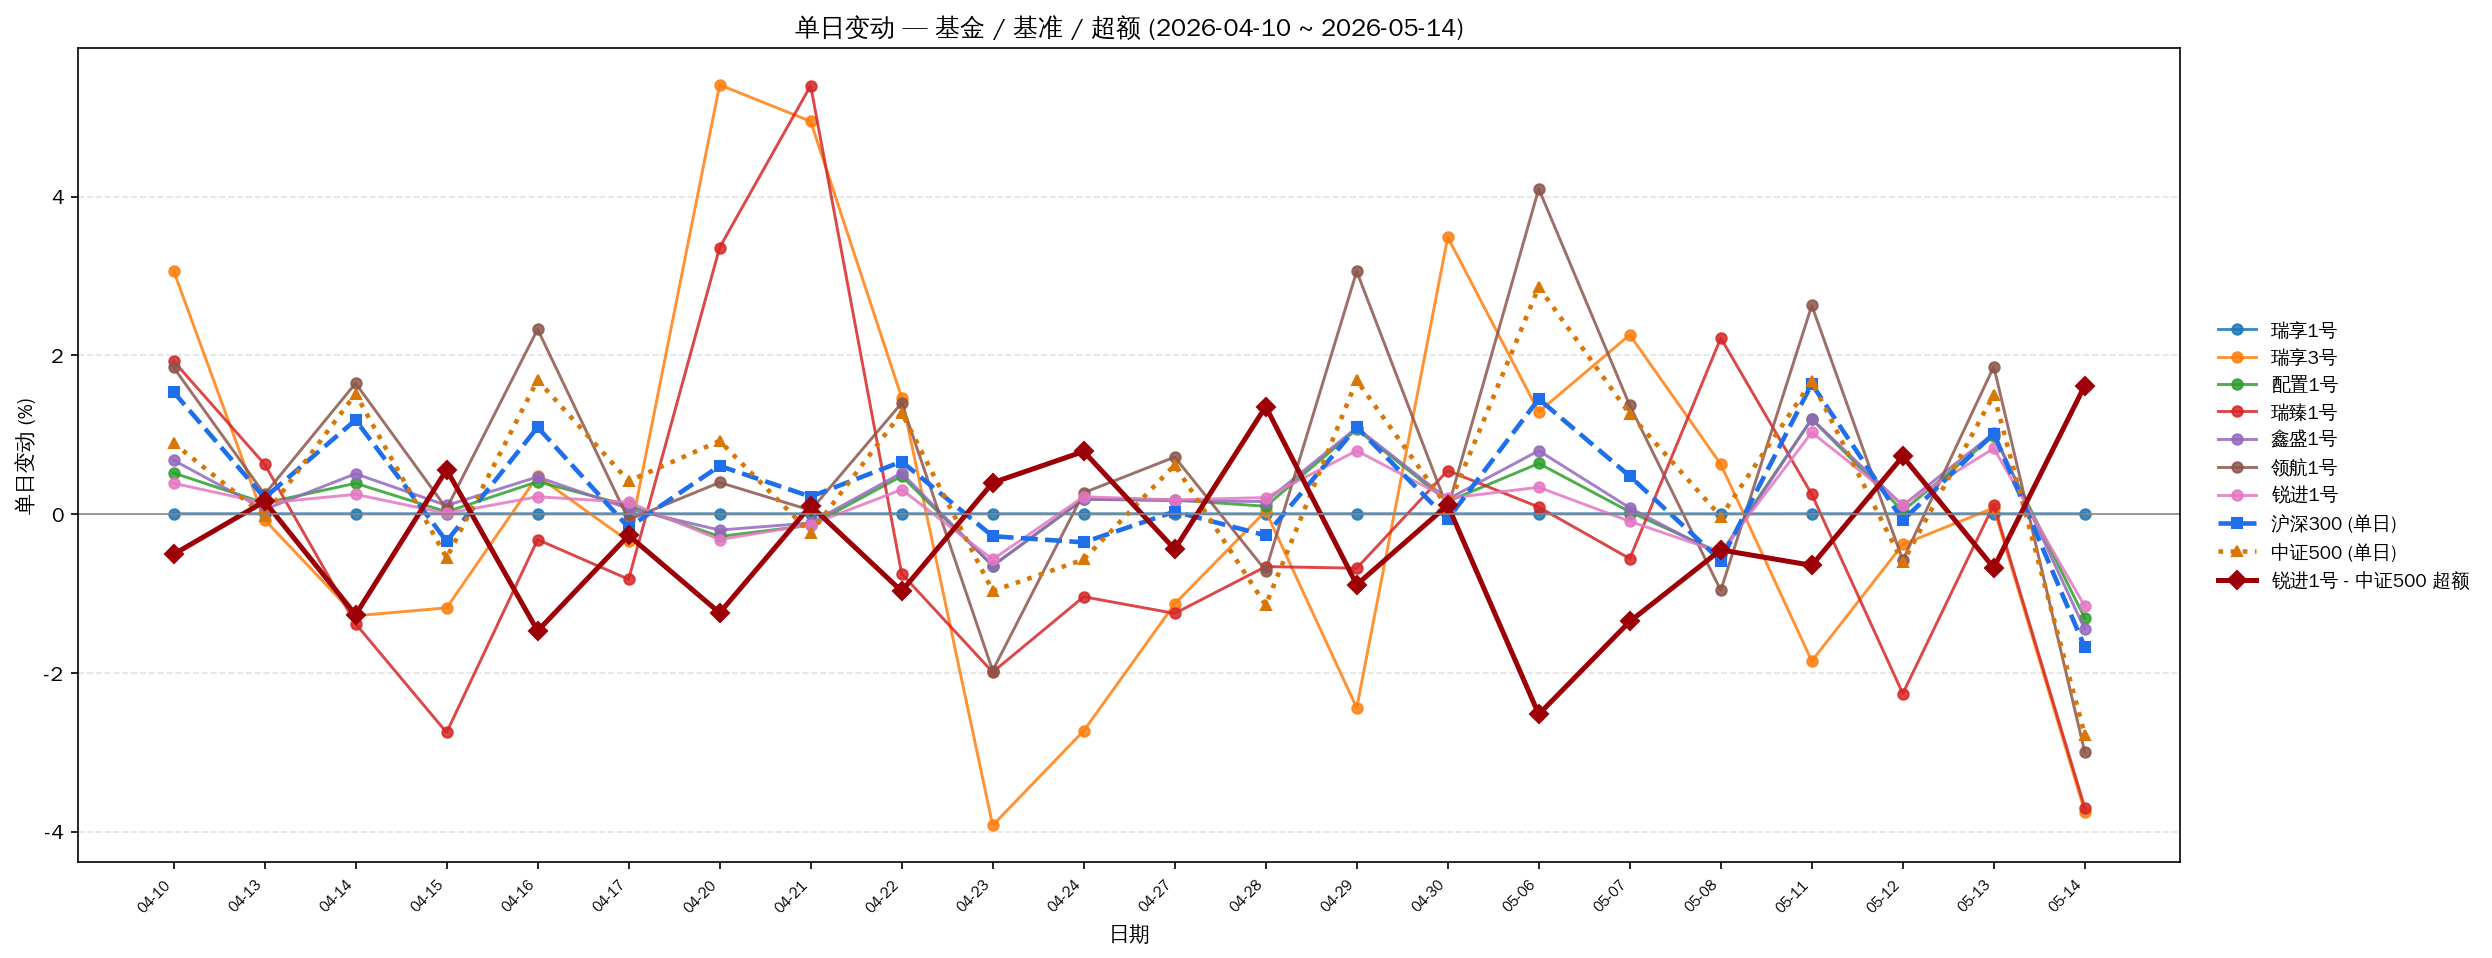
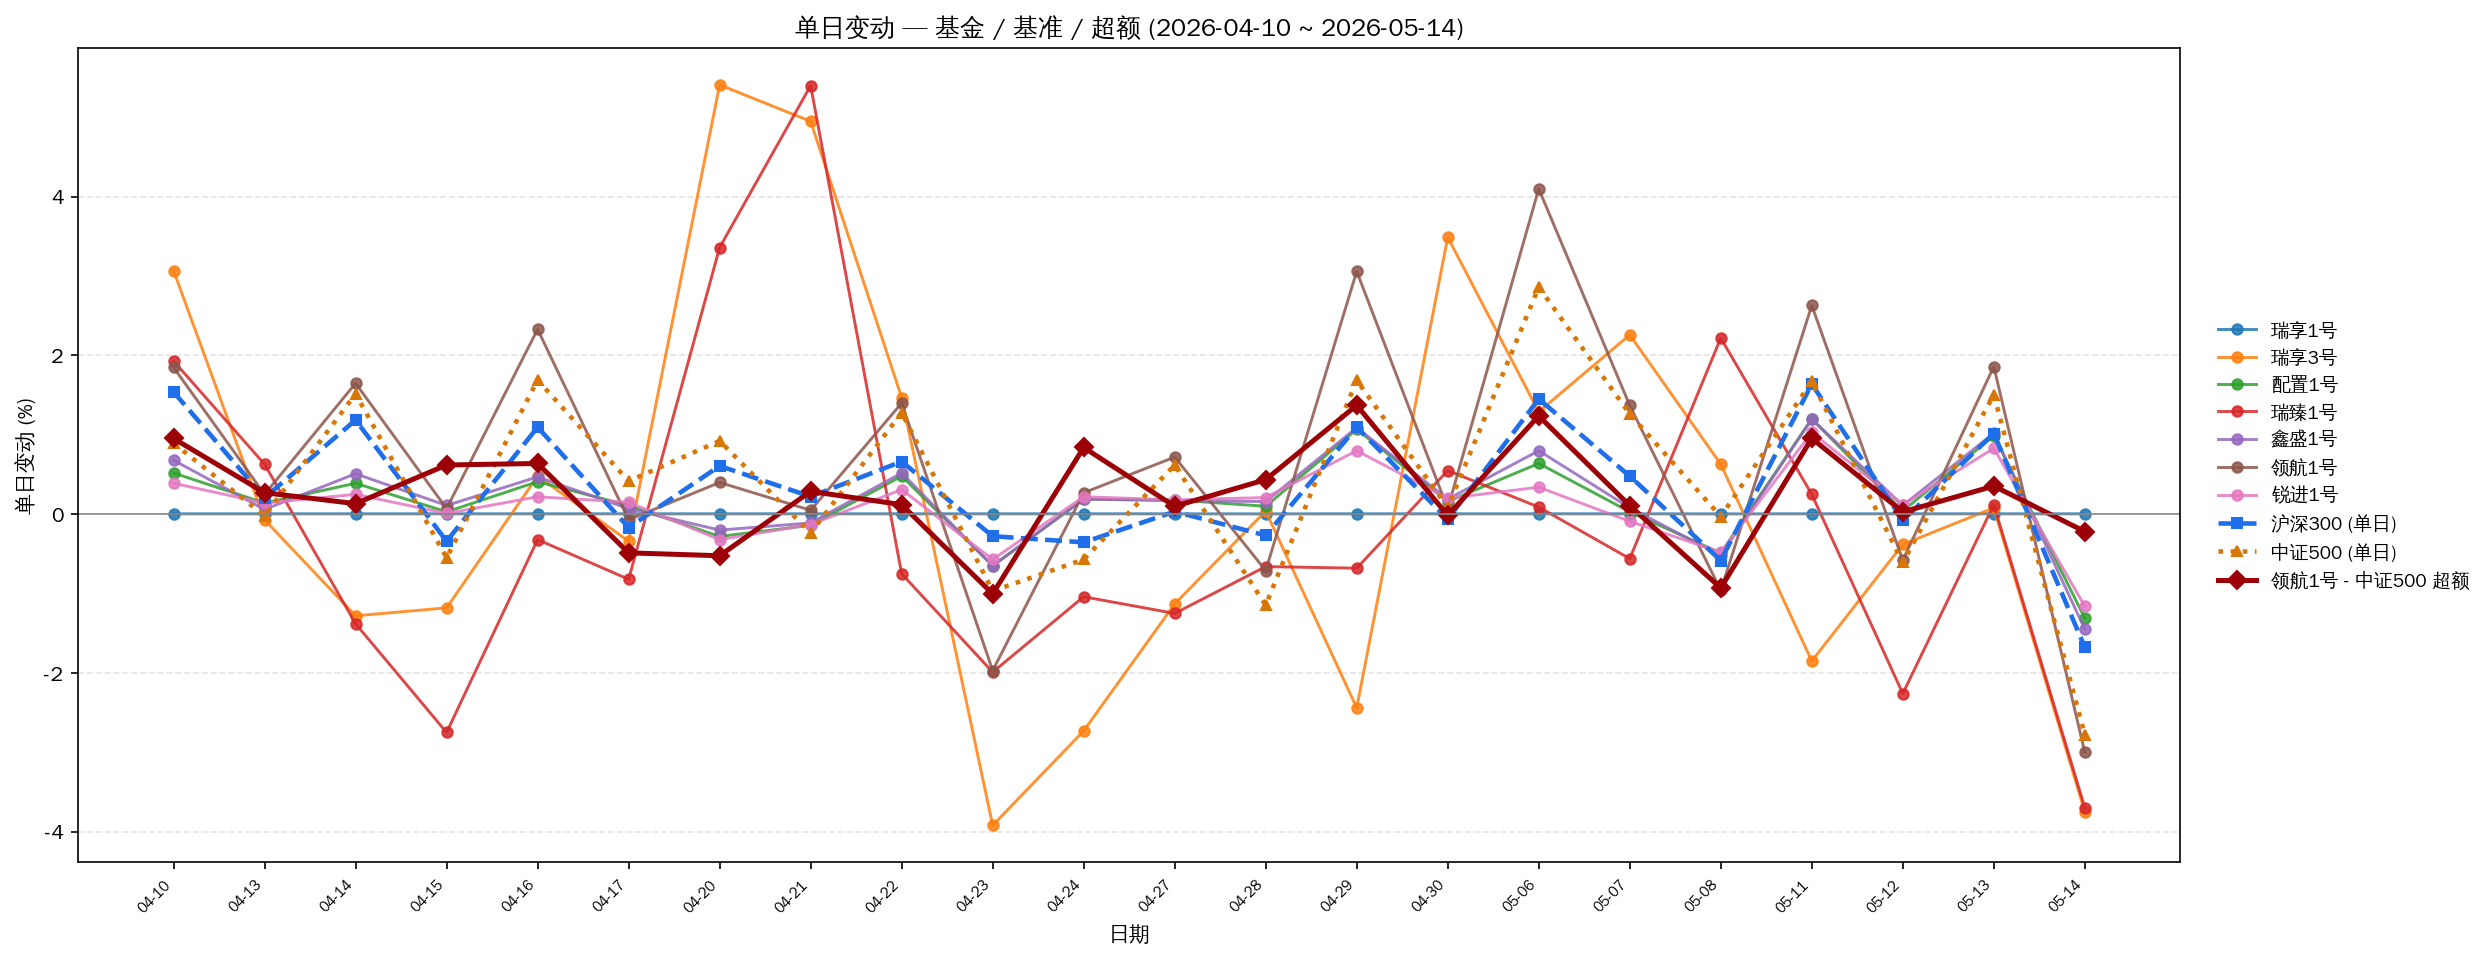
Switch daily excess row/line from 锐进1号 to 领航1号 vs CSI500
https://claude.ai/code/session_014VmLcPuADdRYg34QDm2fTF

diff --git a/pipeline/combined.py b/pipeline/combined.py
@@ -227,7 +227,7 @@ def _write_xlsx(out_path: Path, extractions: list[Extraction],
     _product_rows(ws, ytd_frac, "0.00%")
     _finalize(ws)
 
-    # Sheet 3: daily change + CSI 300 / CSI 500 daily + 锐进1号 excess
+    # Sheet 3: daily change + CSI 300 / CSI 500 daily + 领航1号 excess
     ws = wb.create_sheet("单日单位净值变动")
     _header(ws)
     daily_frac = {n: {d: (v / 100.0 if v is not None else None)
@@ -253,14 +253,14 @@ def _write_xlsx(out_path: Path, extractions: list[Extraction],
             c.alignment = right
             c.border = border
 
-    # 锐进1号 - CSI 500 excess return (daily)
+    # 领航1号 - CSI 500 excess return (daily)
     excess_row = base_row + 2
-    nc = ws.cell(row=excess_row, column=1, value="锐进1号 - 中证500 超额")
+    nc = ws.cell(row=excess_row, column=1, value="领航1号 - 中证500 超额")
     nc.font = excess_font
     nc.fill = excess_fill
     nc.alignment = center
     nc.border = border
-    rj_daily = daily.get("锐进1号", {})
+    rj_daily = daily.get("领航1号", {})
     for j, d in enumerate(dates, start=2):
         rj = rj_daily.get(d)
         b = bench_daily["CSI500"].get(d)
@@ -278,7 +278,7 @@ def _write_xlsx(out_path: Path, extractions: list[Extraction],
 
 def _build_daily_chart(out_path: Path, extractions: list[Extraction],
                        product_order: list[str]) -> None:
-    """Daily % change: every product + CSI 300 + CSI 500 + 锐进1号 excess."""
+    """Daily % change: every product + CSI 300 + CSI 500 + 领航1号 excess."""
     _setup_chinese_font()
 
     dates = [e.date for e in extractions]
@@ -311,7 +311,7 @@ def _build_daily_chart(out_path: Path, extractions: list[Extraction],
             linestyle=":", marker="^", markersize=marker_size,
             linewidth=2.2, color="#d97706", label="中证500 (单日)")
 
-    rj = daily.get("锐进1号", {})
+    rj = daily.get("领航1号", {})
     excess = [
         (rj.get(d) - bench_daily["CSI500"].get(d))
         if (rj.get(d) is not None and bench_daily["CSI500"].get(d) is not None)
@@ -320,7 +320,7 @@ def _build_daily_chart(out_path: Path, extractions: list[Extraction],
     ]
     ax.plot(xs, excess, linestyle="-", marker="D", markersize=marker_size + 1,
             linewidth=2.4, color="#9C0006",
-            label="锐进1号 - 中证500 超额")
+            label="领航1号 - 中证500 超额")
 
     ax.set_xticks(xs)
     ax.set_xticklabels(short_labels, rotation=45, ha="right",
